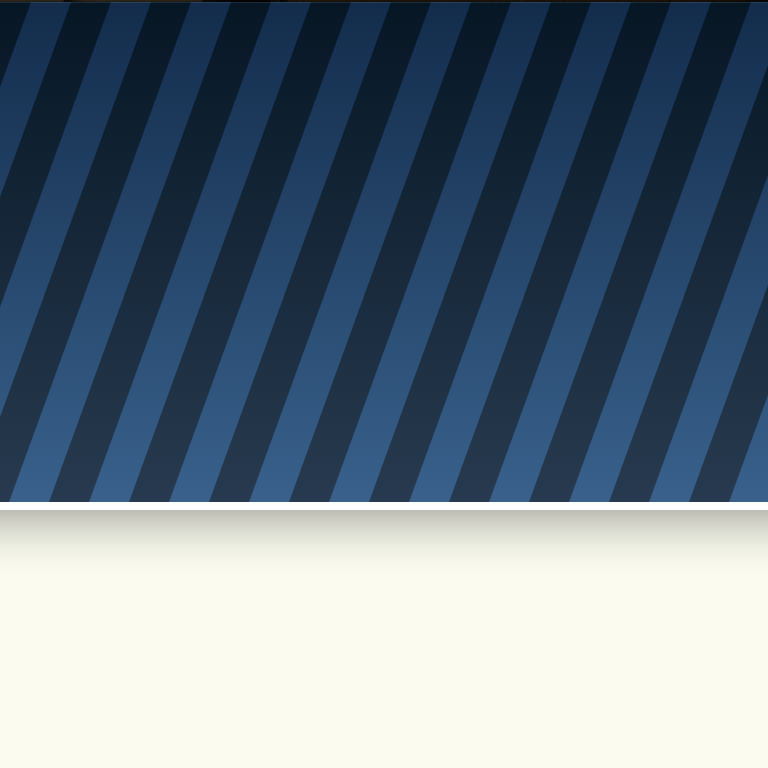
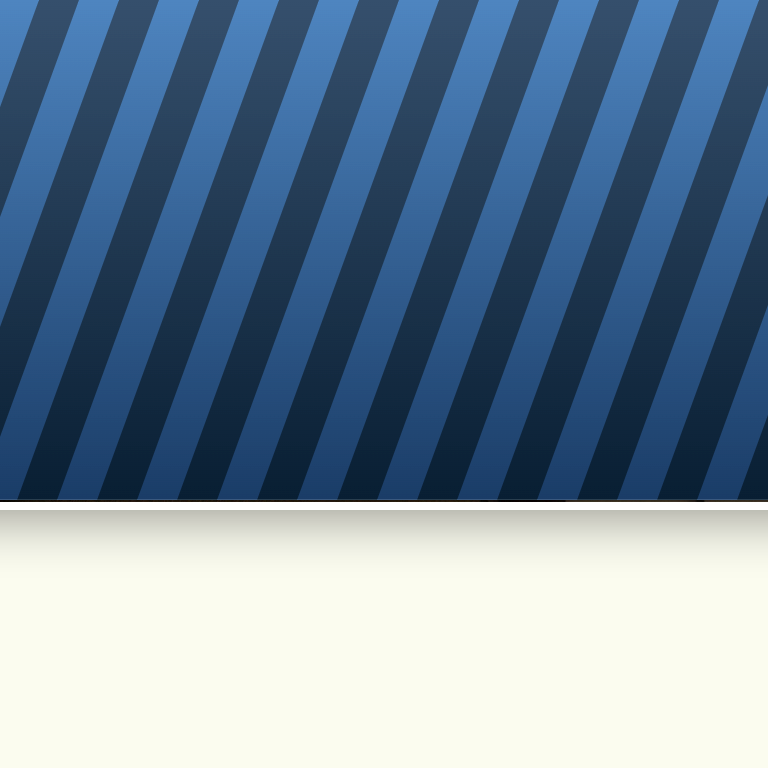
wip

diff --git a/style.css b/style.css
@@ -404,7 +404,7 @@ nav {
 }
 
 .hero.zelda-universe {
-	background-position: center top 41.5%, center center;
+	background-position: center top 35%, center center;
 	background-image: 
 		url(images/zu-logo.png),
 		linear-gradient(rgba(86, 163, 190, .5), rgba(0, 120, 158, .6), rgba(0, 20, 71, .8));
